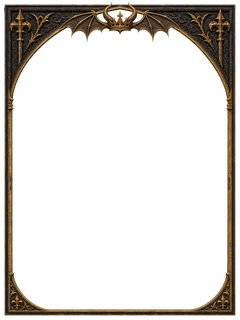
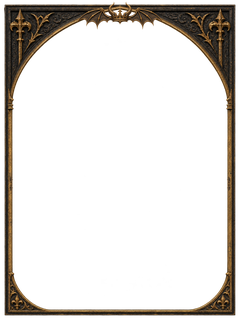
feat: display uniform role frames in public art and own card

Changed region(s): [[0.2333, 0.0, 0.7583, 0.125]]

diff --git a/apps/web/src/components/GuideOverlay.tsx b/apps/web/src/components/GuideOverlay.tsx
@@ -1,6 +1,6 @@
 import {useBackLayer} from '../use-back-layer.js';
 import {beginnerRoles} from '@ravens/content';
-import {RolePortrait} from '@ravens/ui';
+import {RolePortraitFrame} from '@ravens/ui';
 import {useCallback,useEffect,useLayoutEffect,useRef,useState,type PointerEvent} from 'react';
 import {flushSync} from 'react-dom';
 import type {PrivateView} from '../api.js';
@@ -12,6 +12,7 @@ import {PageTextureCache,preparePagePair} from './page-textures.js';
 import {PageTurnLayer} from './PageTurnLayer.js';
 import {useInteractionFeedback} from '../interaction-feedback.js';
 import '../styles/guide-navigation.css';
+import '../styles/role-frames.css';
 
 export type GuideMode='tutorial'|'roles'|'mine';
 const roleTypes=['TOWNSFOLK','OUTSIDER','MINION','DEMON'] as const;
@@ -172,6 +173,6 @@ function GuidePage({page,ownRole,readonly=false,memory,onStep,onSelect,onDetail,
   return <div ref={root} className="guide-page-content">
     {page.mode==='mine'&&ownRole?<div className="own-role-guide" data-page-scroll onScroll={onScroll}><p className={`role-alignment role-alignment--${ownRole.alignment.toLowerCase()}`}>{ownRole.alignment==='GOOD'?'善良阵营':'邪恶阵营'} · {roleTypeNames[ownRole.type as RoleType]}</p><h1>{ownRole.name}</h1><p className="own-role-guide__ability">{ownRole.summary}</p><div className="guide-callout"><span>游玩建议</span><p>{ownRole.beginnerTip}</p></div>{ownGuide?<><div className="guide-callout"><span>规则细节</span><p>{ownGuide.mechanics}</p></div><div className="guide-callout"><span>实战例子</span><p>{ownGuide.example}</p></div><div className="guide-callout guide-callout--quiet"><span>冒充与反制</span><p>{ownGuide.bluff}</p></div></>:null}<div className="guide-callout guide-callout--quiet"><span>阵营目标</span><p>{roleTypeGuidance[ownRole.type as RoleType]}</p></div></div>:null}
     {page.mode==='tutorial'?<div className="guide-tutorial"><div className="guide-tutorial__body" data-page-scroll onScroll={onScroll}><div className="tutorial-page"><div className="guide-tutorial__symbol" aria-hidden="true">{step.symbol}</div><h1>{step.title}</h1><p>{step.detail}</p>{step.points?<ul className="tutorial__points">{step.points.map(point=><li key={point}>{point}</li>)}</ul>:null}{step.example?<aside className="tutorial__example"><span>{step.example.label}</span><p>{step.example.text}</p></aside>:null}</div></div><div className="guide-tutorial__actions"><button type="button" disabled={page.step===0} onClick={()=>onStep?.(-1)}>上一条</button><button type="button" onClick={()=>onStep?.(1)}>{page.step===tutorialSteps.length-1?'继续看角色表':'下一条'}</button></div></div>:null}
-    {page.mode==='roles'?<div className="role-compendium" data-page-scroll onScroll={onScroll} onClick={event=>{if(selected&&event.target===event.currentTarget)onBlank?.();}}><div className="role-browser" hidden={!!selected}><section id={readonly?undefined:'role-category-panel'} role={readonly?undefined:'tabpanel'} aria-labelledby={readonly?undefined:`role-tab-${page.category}`}><p className="role-category-summary">{roleTypeGuidance[page.category]}</p><div className="role-grid">{roles.map(role=>{const art=roleArt(role.id);return <button type="button" data-role-id={readonly?undefined:role.id} key={role.id} aria-label={`查看${role.name}详情`} onClick={()=>onSelect?.(role.id)}><span className="role-index__frame"><RolePortrait className="role-index__portrait" label="" url={art.thumbnailUrl} loading="lazy" position={art.portraitPosition}/></span><span className="role-index__copy"><strong>{role.name}</strong></span></button>;})}</div></section></div>{selected?<article className="role-detail" tabIndex={readonly?undefined:-1} aria-label={`${selected.name}详情`}><RolePortrait className="role-detail__portrait" label={`${selected.name}角色立绘`} url={roleArt(selected.id).portraitUrl} srcSet={roleArt(selected.id).portraitSrcSet} sizes="(max-width: 820px) 90vw, 390px" position="50% 0%"/><div className="role-detail__copy"><h2>能力</h2><p>{selected.summary}</p>{guide?<><h2>规则细节</h2><p>{guide.mechanics}</p></>:null}<details className="role-detail__advice" open={readonly?memory?.advice:undefined} onToggle={readonly?undefined:onAdvice}><summary>游玩建议与示例</summary><p>{selected.beginnerTip}</p>{guide?<><p>{guide.play}</p><h3>实战例子</h3><p>{guide.example}</p><h3>冒充与反制</h3><p>{guide.bluff}</p></>:null}</details></div><footer className="role-detail-nav"><button type="button" disabled={index<=0} onClick={()=>onDetail?.(-1)}>上一位</button><button type="button" disabled={index>=roles.length-1} onClick={()=>onDetail?.(1)}>下一位</button></footer></article>:null}</div>:null}
+    {page.mode==='roles'?<div className="role-compendium" data-page-scroll onScroll={onScroll} onClick={event=>{if(selected&&event.target===event.currentTarget)onBlank?.();}}><div className="role-browser" hidden={!!selected}><section id={readonly?undefined:'role-category-panel'} role={readonly?undefined:'tabpanel'} aria-labelledby={readonly?undefined:`role-tab-${page.category}`}><p className="role-category-summary">{roleTypeGuidance[page.category]}</p><div className="role-grid">{roles.map(role=>{const art=roleArt(role.id);return <button type="button" data-role-id={readonly?undefined:role.id} key={role.id} aria-label={`查看${role.name}详情`} onClick={()=>onSelect?.(role.id)}><span className="role-index__frame"><RolePortraitFrame frameUrl={art.frameThumbnailUrl} className="role-index__portrait" label="" url={art.thumbnailUrl} loading="lazy" position={art.portraitPosition}/></span><span className="role-index__copy"><strong>{role.name}</strong></span></button>;})}</div></section></div>{selected?<article className="role-detail" tabIndex={readonly?undefined:-1} aria-label={`${selected.name}详情`}><RolePortraitFrame frameUrl={roleArt(selected.id).frameUrl} frameSrcSet={roleArt(selected.id).frameSrcSet} className="role-detail__portrait" label={`${selected.name}角色立绘`} url={roleArt(selected.id).portraitUrl} srcSet={roleArt(selected.id).portraitSrcSet} sizes="(max-width: 820px) 90vw, 390px" position="50% 0%"/><div className="role-detail__copy"><h2>能力</h2><p>{selected.summary}</p>{guide?<><h2>规则细节</h2><p>{guide.mechanics}</p></>:null}<details className="role-detail__advice" open={readonly?memory?.advice:undefined} onToggle={readonly?undefined:onAdvice}><summary>游玩建议与示例</summary><p>{selected.beginnerTip}</p>{guide?<><p>{guide.play}</p><h3>实战例子</h3><p>{guide.example}</p><h3>冒充与反制</h3><p>{guide.bluff}</p></>:null}</details></div><footer className="role-detail-nav"><button type="button" disabled={index<=0} onClick={()=>onDetail?.(-1)}>上一位</button><button type="button" disabled={index>=roles.length-1} onClick={()=>onDetail?.(1)}>下一位</button></footer></article>:null}</div>:null}
   </div>;
 }

diff --git a/packages/ui/src/RoleCard.tsx b/packages/ui/src/RoleCard.tsx
@@ -1,5 +1,6 @@
 import { useState } from "react";
 import { Button } from "./Button.js";
+import {RolePortraitFrame} from './RolePortraitFrame.js';
 
 export interface RoleCardProps {
   name: string;
@@ -8,10 +9,12 @@ export interface RoleCardProps {
   portraitUrl: string;
   portraitSrcSet?: string;
   portraitPosition?: string;
+  frameUrl?: string;
+  frameSrcSet?: string;
   beginnerTip?: string;
 }
 
-export function RoleCard({ name, alignment, ability, portraitUrl, portraitSrcSet, portraitPosition = "50% 50%", beginnerTip }: RoleCardProps) {
+export function RoleCard({ name, alignment, ability, portraitUrl, portraitSrcSet, portraitPosition = "50% 50%", frameUrl, frameSrcSet, beginnerTip }: RoleCardProps) {
   const [covered, setCovered] = useState(false);
   if (covered) {
     return (
@@ -23,9 +26,9 @@ export function RoleCard({ name, alignment, ability, portraitUrl, portraitSrcSet
     );
   }
   return (
-    <article className="rn-role-card">
+    <article className={`rn-role-card${frameUrl?' rn-role-card--framed':''}`}>
       <div className="rn-role-card__portrait-wrap">
-        <RolePortrait className="rn-role-card__portrait" label={`${name}角色立绘`} url={portraitUrl} {...(portraitSrcSet ? { srcSet: portraitSrcSet } : {})} sizes="(max-width: 420px) 90vw, 390px" position={portraitPosition} />
+        {frameUrl?<RolePortraitFrame className="rn-role-card__portrait" label={`${name}角色立绘`} url={portraitUrl} srcSet={portraitSrcSet} frameUrl={frameUrl} frameSrcSet={frameSrcSet} sizes="(max-width: 420px) 90vw, 390px" position={portraitPosition}/>:<RolePortrait className="rn-role-card__portrait" label={`${name}角色立绘`} url={portraitUrl} {...(portraitSrcSet ? { srcSet: portraitSrcSet } : {})} sizes="(max-width: 420px) 90vw, 390px" position={portraitPosition} />}
         <div className="rn-role-card__fade" />
       </div>
       <div className="rn-role-card__copy">

diff --git a/packages/ui/src/RoleCard.test.tsx b/packages/ui/src/RoleCard.test.tsx
@@ -1,8 +1,9 @@
 // @vitest-environment jsdom
 import "@testing-library/jest-dom/vitest";
-import { fireEvent, render, screen } from "@testing-library/react";
-import { expect, test } from "vitest";
+import { cleanup, fireEvent, render, screen } from "@testing-library/react";
+import {afterEach, expect, test} from "vitest";
 import { RoleCard } from "./RoleCard.js";
+afterEach(cleanup);
 
 test("a player can instantly cover and reveal private role information", () => {
   render(<RoleCard name="共情者" alignment="善良 · 镇民" ability="每夜得知邻座中邪恶玩家的数量。" portraitUrl="/portrait.webp" />);
@@ -11,4 +12,14 @@ test("a player can instantly cover and reveal private role information", () => {
   expect(screen.queryByText("共情者")).not.toBeInTheDocument();
   fireEvent.click(screen.getByRole("button", { name: "显示身份" }));
   expect(screen.getByText("共情者")).toBeVisible();
+});
+
+test('covering a framed private card removes its portrait and taxonomy ornament',()=>{
+  const view=render(<RoleCard name="小恶魔" alignment="邪恶 · 恶魔" ability="能力" portraitUrl="/imp.webp" frameUrl="/demon.webp" frameSrcSet="/demon-small.webp 240w, /demon.webp 960w"/>);
+  expect(view.container.querySelector('.rn-portrait-frame__ornament')).toHaveAttribute('src','/demon.webp');
+  expect(screen.getAllByRole('img')).toHaveLength(1);
+  fireEvent.click(screen.getByRole('button',{name:'遮住身份'}));
+  expect(view.container.querySelector('img')).toBeNull();
+  fireEvent.click(screen.getByRole('button',{name:'显示身份'}));
+  expect(screen.getByRole('img',{name:'小恶魔角色立绘'})).toHaveAttribute('src','/imp.webp');
 });

diff --git a/apps/web/src/components/HomePortrait.tsx b/apps/web/src/components/HomePortrait.tsx
@@ -1,3 +1,5 @@
+import {RolePortraitFrame} from '@ravens/ui';
+import '../styles/role-frames.css';
 import { beginnerRoles } from '@ravens/content';
 import { useEffect, useLayoutEffect, useRef, useState } from 'react';
 import { roleArt } from '../role-art.js';
@@ -104,7 +106,7 @@ export function HomePortrait() {
       <div className="home-portrait__track">{beginnerRoles.map((role,item)=>{
         const art=roleArt(role.id),near=Math.abs(relative(item,index))<=2;
         return <div ref={node=>{cards.current[item]=node;}} className="home-portrait__slide" key={role.id} aria-hidden={item!==index}><div className="home-portrait__arch">
-          <img src={near?art.portraitUrl:undefined} srcSet={near?art.portraitSrcSet:undefined} sizes="(max-width:600px) 76vw,420px" alt={`${role.name}原画`} draggable={false} decoding="async" onError={event=>{if(event.currentTarget.getAttribute('src')?.endsWith('/concealed.svg'))return;event.currentTarget.removeAttribute('srcset');event.currentTarget.src='/assets/ravens/portraits-b-v2/concealed.svg';}}/><div className="home-portrait__shade"/>
+          <RolePortraitFrame className="home-portrait__artwork" url={near?art.portraitUrl:undefined} srcSet={near?art.portraitSrcSet:undefined} frameUrl={near?art.frameUrl:undefined} frameSrcSet={near?art.frameSrcSet:undefined} sizes="(max-width:600px) 76vw,420px" label={`${role.name}原画`} fallbackUrl="/assets/ravens/portraits-b-v2/concealed.svg"/><div className="home-portrait__shade"/>
         </div></div>;
       })}</div>
     </div>

diff --git a/packages/ui/src/RolePortraitFrame.tsx b/packages/ui/src/RolePortraitFrame.tsx
@@ -1,0 +1,25 @@
+import type {CSSProperties} from 'react';
+import './styles/role-portrait-frame.css';
+
+export interface RolePortraitFrameProps {
+  url?:string|undefined;
+  label:string;
+  className?:string;
+  srcSet?:string|undefined;
+  sizes?:string;
+  position?:string;
+  loading?:'eager'|'lazy';
+  frameUrl?:string|undefined;
+  frameSrcSet?:string|undefined;
+  fallbackUrl?:string;
+}
+
+/** Decorative artwork only. Callers supply an already-public or own-role frame. */
+export function RolePortraitFrame({url,label,className='',srcSet,sizes,position='50% 20%',loading='eager',frameUrl,frameSrcSet,fallbackUrl}:RolePortraitFrameProps){
+  return <span className={`rn-portrait-frame ${className}`}>
+    <span className="rn-portrait-frame__canvas">
+      <img className="rn-portrait-frame__image" src={url} srcSet={srcSet} sizes={sizes} alt={label} width={960} height={1280} loading={loading} decoding="async" draggable={false} style={{objectPosition:position} as CSSProperties} onError={fallbackUrl?event=>{const image=event.currentTarget;if(image.getAttribute('src')===fallbackUrl)return;image.removeAttribute('srcset');image.src=fallbackUrl;}:undefined}/>
+      {frameUrl?<img className="rn-portrait-frame__ornament" src={frameUrl} srcSet={frameSrcSet} sizes={sizes} alt="" aria-hidden="true" width={960} height={1280} loading={loading} decoding="async" draggable={false}/>:null}
+    </span>
+  </span>;
+}

diff --git a/apps/web/src/styles/role-frames.css b/apps/web/src/styles/role-frames.css
@@ -1,0 +1,11 @@
+/* The raster frame owns its decoration; existing carousel and page boxes stay put. */
+.home-portrait .home-portrait__arch{border:0;border-radius:0;background:none;box-shadow:0 15px 50px #0009;overflow:visible}
+.home-portrait .home-portrait__artwork{width:100%;height:100%}
+.home-portrait .home-portrait__arch .rn-portrait-frame__image{transform:none;filter:brightness(.77) saturate(.7)}
+.home-portrait .home-portrait__arch .rn-portrait-frame__ornament{transform:none;filter:none;animation:none}
+.home-portrait .home-portrait__shade{display:none}
+.guide-sheet .role-browser .role-index__frame{border:0;border-radius:0;background:none;overflow:visible;box-shadow:0 5px 14px #0004}
+.guide-sheet .role-index__portrait.rn-portrait-frame{width:100%;height:auto;aspect-ratio:4/5;background:none;filter:none}
+.guide-sheet .role-detail__portrait.rn-portrait-frame{background:none;-webkit-mask-image:none;mask-image:none}
+.guide-sheet .role-detail__portrait .rn-portrait-frame__image{-webkit-mask-image:linear-gradient(to bottom,#000 0%,#000 70%,#000c 81%,#0005 93%,transparent 100%);mask-image:linear-gradient(to bottom,#000 0%,#000 70%,#000c 81%,#0005 93%,transparent 100%)}
+.town-role-confirm .rn-role-card.rn-role-card--framed,.role-confirm-page .rn-role-card.rn-role-card--framed{border-color:transparent;box-shadow:var(--rn-shadow)}

diff --git a/packages/ui/src/styles/role-portrait-frame.css b/packages/ui/src/styles/role-portrait-frame.css
@@ -1,0 +1,7 @@
+.rn-portrait-frame{position:relative;display:block;container-type:size;isolation:isolate;aspect-ratio:3/4}
+.rn-portrait-frame__canvas{position:absolute;left:50%;top:50%;transform:translate(-50%,-50%);width:min(100cqw,75cqh);height:min(100cqh,133.333333cqw);display:block}
+.rn-portrait-frame__canvas>.rn-portrait-frame__image{position:absolute;left:2%;top:2%;width:96%;height:96%;display:block;object-fit:cover;pointer-events:none}
+.rn-portrait-frame__canvas>.rn-portrait-frame__ornament{position:absolute;inset:0;width:100%;height:100%;display:block;object-fit:fill;pointer-events:none;user-select:none}
+.rn-role-card.rn-role-card--framed{border-color:transparent;box-shadow:var(--rn-shadow)}
+.rn-role-card--framed::after{display:none}
+.rn-role-card--framed .rn-role-card__fade{display:none}

diff --git a/apps/web/src/role-art.test.ts b/apps/web/src/role-art.test.ts
@@ -1,0 +1,15 @@
+import {expect,test} from 'vitest';
+import {beginnerRoles} from '@ravens/content';
+import {roleArt,roleFrame} from './role-art.js';
+
+test('only public role taxonomy selects a frame and unknown identities stay neutral',()=>{
+  for(const role of beginnerRoles){
+    expect(roleArt(role.id).frameUrl).toBe(roleFrame(role.type).frameUrl);
+    expect(roleArt(role.id).frameThumbnailUrl).toMatch(/-small\.webp$/);
+  }
+  for(const id of ['unknown','concealed','']){
+    expect(roleArt(id).frameUrl).toBeUndefined();
+    expect(roleArt(id).portraitUrl).toMatch(/concealed\.svg$/);
+  }
+  expect(roleFrame('GOOD')).toEqual({});
+});

diff --git a/packages/ui/src/index.ts b/packages/ui/src/index.ts
@@ -3,6 +3,7 @@ export * from './FeedbackButton.js';
 export * from "./Countdown.js";
 export * from "./Panel.js";
 export * from "./RoleCard.js";
+export * from './RolePortraitFrame.js';
 export * from "./SeatRing.js";
 export * from "./round-table.js";
 export * from "./player-label.js";

diff --git a/artifacts/role-type-frames-2026-11-13/build-assets.py b/artifacts/role-type-frames-2026-11-13/build-assets.py
@@ -18,7 +18,7 @@ sha = lambda path: hashlib.sha256(path.read_bytes()).hexdigest()
 for column, frame in enumerate(json.loads((HERE / 'final-prompts.json').read_text(encoding='utf-8'))['frames']):
     crest_path = HERE / 'crests' / (frame['id'] + '.png')
     crest = Image.open(crest_path).convert('RGBA')
-    crest.thumbnail((round(width * .58), round(height * .13)), Image.Resampling.LANCZOS)
+    crest.thumbnail((round(width * .58), round(height * .09)), Image.Resampling.LANCZOS)
     result = base.copy()
     result.alpha_composite(crest, ((width - crest.width) // 2, 6))
     # Small matching reliefs remain on the side rails, outside the face aperture.

diff --git a/artifacts/role-type-frames-2026-11-13/README.md b/artifacts/role-type-frames-2026-11-13/README.md
@@ -2,7 +2,7 @@
 
 2026-11-13 用户确认的四类公开角色装饰：镇民小城楼与窗花；外来者羽叶与绳结；爪牙向内交缠荆棘；恶魔横展蝠翼与角冠。四者全部使用相同暖暗金色，以徽记轮廓区分，不通过改颜色区分。
 
-底框统一使用上一批 `independent-frames-2026-11-13/originals/fleur-rounded.png`。内置 `image_gen` 分别生成四枚高细节透明金属徽记，完整提示词在 `final-prompts.json`，原徽记在 `crests/`；离线合成仅在同一底框顶部叠徽记、在侧轨加微小同款浮雕。底框轮廓、色泽、粗细不重新生成、不改色，中央脸区不放徽记。此前三类历史框及人物原图全部保留。
+底框统一使用上一批 `independent-frames-2026-11-13/originals/fleur-rounded.png`。内置 `image_gen` 分别生成四枚高细节透明金属徽记，完整提示词在 `final-prompts.json`，原徽记在 `crests/`；离线合成仅在同一底框顶部叠徽记、在侧轨加微小同款浮雕。顶部徽记统一限制在画面高度9%内，避免压住人物额头。底框轮廓、色泽、粗细不重新生成、不改色，中央脸区不放徽记。此前三类历史框及人物原图全部保留。
 
 ## 文件与重建
 
@@ -10,11 +10,16 @@
 - `apps/web/public/assets/ravens/role-type-frames-v1/`：每类完整PNG及无损WebP各960×1280；`-small.webp`缩略档240×320，共12图。
 - 运行目录 `manifest.json`：底框/徽记/完整原件及所有导出SHA256。`base`以仓库根解析；各项`crest`和`source`以本美术交付目录解析；`variants[].file`以运行素材目录解析。
 - `thumbnail-preview.png`：240像素宽离线预览，供查看四类徽记区别；不是手机或页面截图。
+- `ui-composite-preview.png`：以僧侣、隐士、已选投毒者及小恶魔图像做纯离线叠图，核对徽记不压脸；不是浏览器渲染或实际手机验收。
 
 重建：仓库根 `python artifacts/role-type-frames-2026-11-13/build-assets.py`，使用既有Pillow。生成过程不调用API、不打开浏览器。原绘画由内置imagegen完成，脚本只做等比缩放、透明图层合成与编码。
 
 ## 使用边界与验证
 
-`role-art.ts` 的 `roleFrame(type)` 只接受公开分类TOWNSFOLK/OUTSIDER/MINION/DEMON，不通过玩家身份、座位或房间状态推断。`roleArt`仅对已知公开角色目录补充框引用，未知身份无分类框。首页角色轮播、手册图鉴及本人身份卡的展示叠层由下一批UI提交接入，名称继续在框外，不改变公开座位/玩家头像/城镇死亡标记。
+`role-art.ts` 的 `roleFrame(type)` 只接受公开分类TOWNSFOLK/OUTSIDER/MINION/DEMON，不通过玩家身份、座位或房间状态推断。`roleArt`仅对已知公开角色目录补充框引用，未知身份无分类框。首页角色轮播、手册索引/详情及本人身份卡已本地接入独立装饰叠层，名称继续在框外，不改变公开座位/玩家头像/城镇死亡标记。
 
-已离线目视四徽记、四完整框及缩略预览，独立review无阻塞；核对12图尺寸、透明通道、中心空和四框中央区域与同一底框一致。实际手机审美与触摸留给用户人工验收，未使用有头/无头浏览器，未部署。共享阶段/发布记录由统筹会话维护。
+共用组件为 `packages/ui/src/RolePortraitFrame.tsx`，框图保持3:4居中，外盒继续由既有页面决定（首页轮播、索引4:5、详情4:3及本人卡原尺寸）。使用常规图片叠层，无额外JS动画或卷页几何变更；旧详情渐隐仅移至内部人物图，外层及装饰框不被遮罩。本人卡`frameUrl`/`frameSrcSet`可选，旧调用兼容，遮住身份时一并卸载画像和分类框。`apps/web/src/styles/role-frames.css`只处理重复装饰和新图层，不覆盖分类文字颜色；爪牙/恶魔文字仍由主页和手册既有公开分类样式控制。
+
+已离线目视四徽记、四完整框及缩略预览，独立素材review无阻塞；核对12图尺寸、透明通道、中心空和四框中央区域与同一底框一致。24项针对性DOM及映射用例通过，覆盖既有首页轮播稳定性、手册导航/卷页交互、本人卡隐藏及未知身份中性处理。Web类型检查与Vite生产构建通过：工作树根node_modules为既有依赖junction，pnpm任务状态目录检查拒绝该路径，因此直接运行仓库现有Node TypeScript/Vite/Vitest入口完成等价检查，没有改锁文件或依赖。
+
+UI独立review发现的详情外层渐隐污染已修复并复审闭环；9%徽记位置也经过独立离线复审。实际手机审美与触摸留给用户人工验收，未使用有头/无头浏览器，未部署。共享阶段/发布记录由统筹会话维护。
